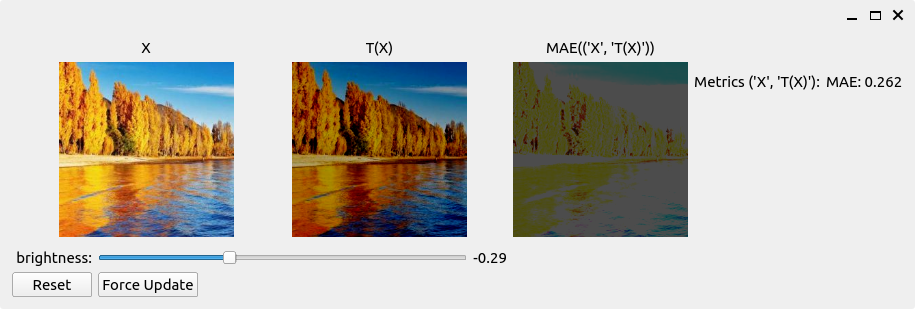
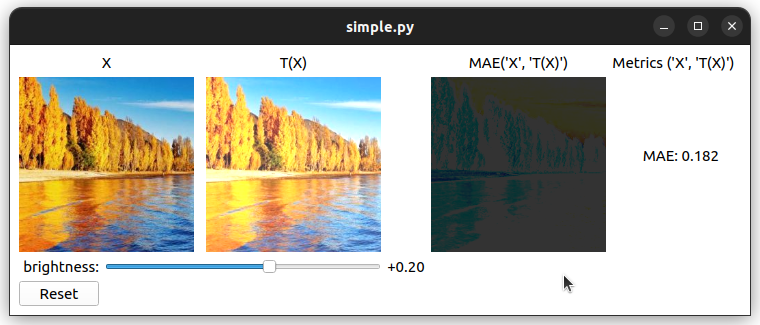
only make update button when graph avg chosen

diff --git a/IQM_VIS/UI/widgets.py b/IQM_VIS/UI/widgets.py
@@ -72,18 +72,21 @@ class app_widgets():
                 self.widgets['label'][str(im_pair)+'_metrics_info'] = QLabel(self)
                 self.widgets['label'][str(im_pair)+'_metrics_info'].setAlignment(Qt.AlignmentFlag.AlignCenter)
                 self.widgets['label'][str(im_pair)+'_metrics_info'].setText('')
-            # metrics graphs
-            self.widgets['label'][str(im_pair)+'_metrics_graph'] = QLabel(self)
-            self.widgets['label'][str(im_pair)+'_metrics_graph'].setAlignment(Qt.AlignmentFlag.AlignCenter)
-            self.widgets['label'][str(im_pair)+'_metrics_graph'].setText('Metrics Avg. Graph')
-            self.widgets['graph'][str(im_pair)+'_metrics'] = gui_utils.MplCanvas(self, polar=True)
+            # metrics avgerage graphs
+            if self.metrics_avg_graph:
+                self.widgets['label'][str(im_pair)+'_metrics_graph'] = QLabel(self)
+                self.widgets['label'][str(im_pair)+'_metrics_graph'].setAlignment(Qt.AlignmentFlag.AlignCenter)
+                self.widgets['label'][str(im_pair)+'_metrics_graph'].setText('Metrics Avg. Graph')
+                self.widgets['graph'][str(im_pair)+'_metrics'] = gui_utils.MplCanvas(self, polar=True)
+                self.widgets['graph'][str(im_pair)+'_metrics'].setToolTip('Mean metric value over the range of each transform.')
 
         '''buttons'''
         self.widgets['button']['reset_sliders'] = QPushButton('Reset', self)
         self.widgets['button']['reset_sliders'].clicked.connect(self.reset_sliders)
-        self.widgets['button']['force_update'] = QPushButton('Update', self)
-        self.widgets['button']['force_update'].clicked.connect(self.display_images)
         if self.metrics_avg_graph:
+            self.widgets['button']['force_update'] = QPushButton('Calc. Avg.', self)
+            self.widgets['button']['force_update'].setToolTip('Update metrics average plot using the current slider values.')
+            self.widgets['button']['force_update'].clicked.connect(self.display_images)
             self.widgets['button']['force_update'].clicked.connect(self.get_metrics_over_range)
 
         '''sliders'''
@@ -124,3 +127,5 @@ class app_widgets():
         for key in self.sliders.keys():
             self.widgets['slider'][key].setValue(self.sliders[key]['init_ind'])
         self.display_images()
+        if self.metrics_avg_graph:
+            self.get_metrics_over_range()

diff --git a/IQM_VIS/UI/layout.py b/IQM_VIS/UI/layout.py
@@ -77,7 +77,8 @@ class app_layout(QMainWindow):
 
         # reset sliders
         self.layout.addWidget(self.widgets['button']['reset_sliders'], button*i, start_controls, button, button)
-        self.layout.addWidget(self.widgets['button']['force_update'], button*i, start_controls+button, button, button)
+        if self.metrics_avg_graph:
+            self.layout.addWidget(self.widgets['button']['force_update'], button*i, start_controls+button, button, button)
         i += 1
         # init it!
         self.show()

diff --git a/examples/multiple.py b/examples/multiple.py
@@ -24,4 +24,8 @@ transformations = {
            }
 
 # make app
-api.make_UI(image_paths, metrics_dict, metrics_image_dict, transformations, metrics_avg_graph=True)
+api.make_UI(image_paths,
+            metrics_dict,
+            metrics_image_dict,
+            transformations,
+            metrics_avg_graph=True)

diff --git a/tests/todo.md b/tests/todo.md
@@ -1,9 +1,12 @@
 make API a new format
 
--> change rows to be independant (can have different metrics per row)
+-> change rows to be independent (can have different metrics per row)
 -> better handling of image data
 -> better construction of widgets/layout
+
+-> only make update button when graph avg chosen
 
 later
 -> pass a generator to loop over the dataset
 -> can link image labels from dataset into metrics
+-> show next arrows when generator used
